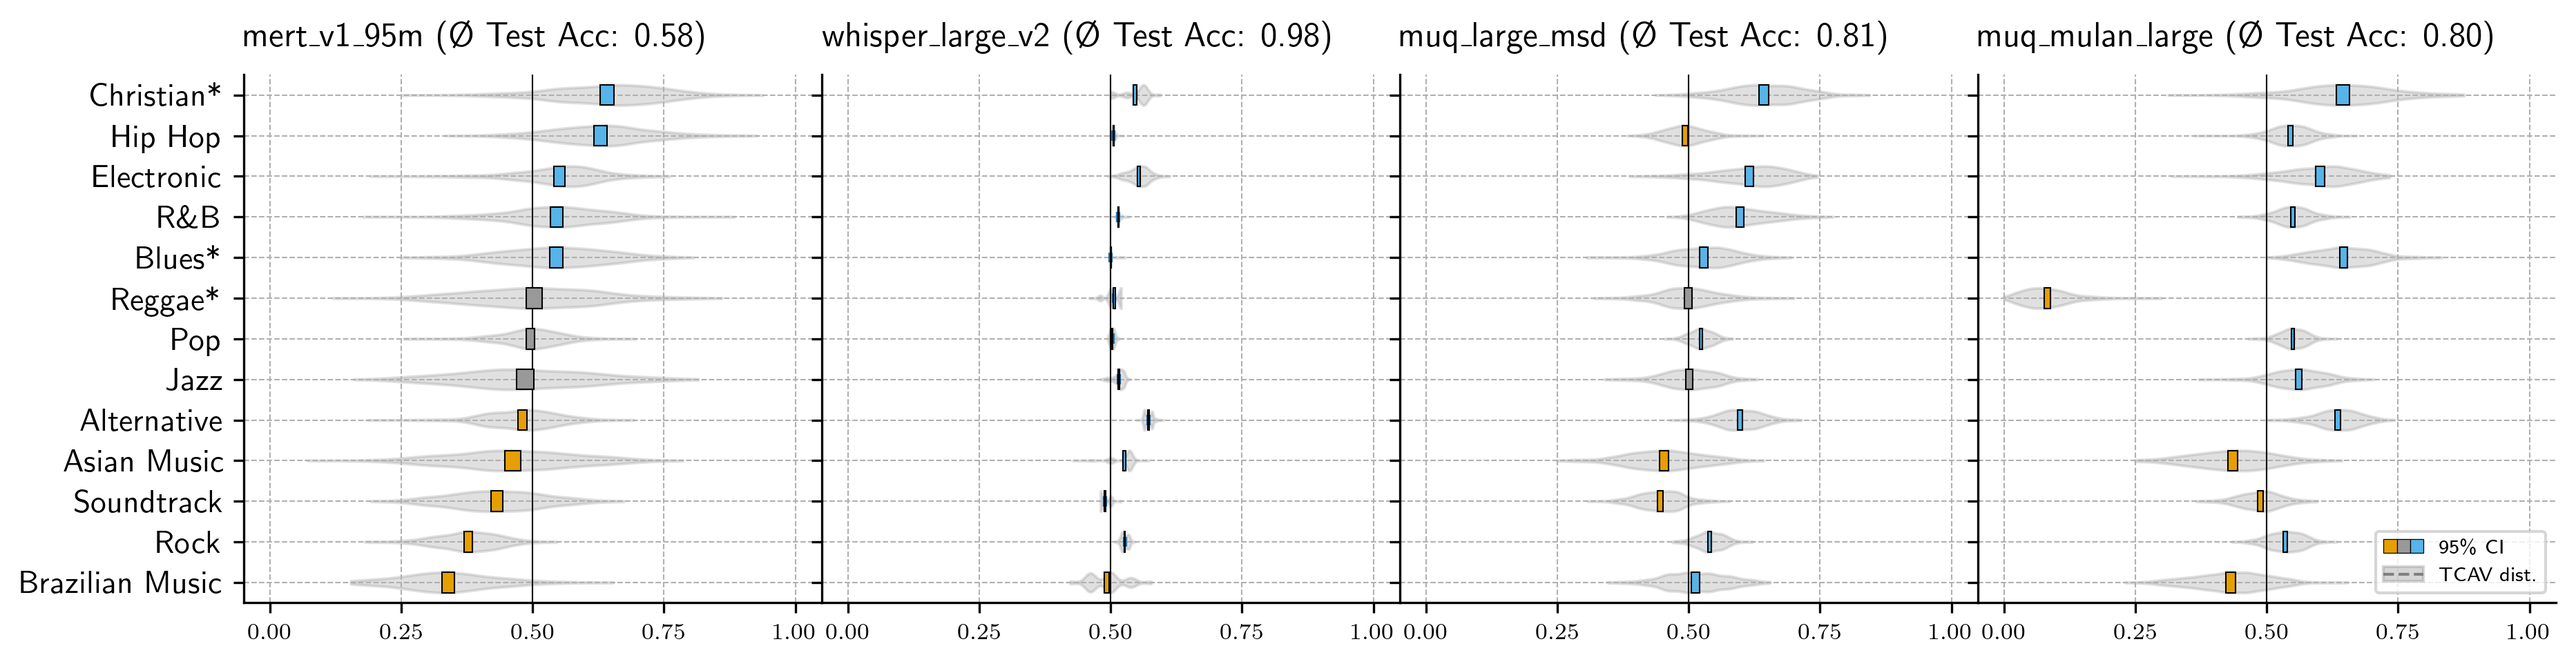
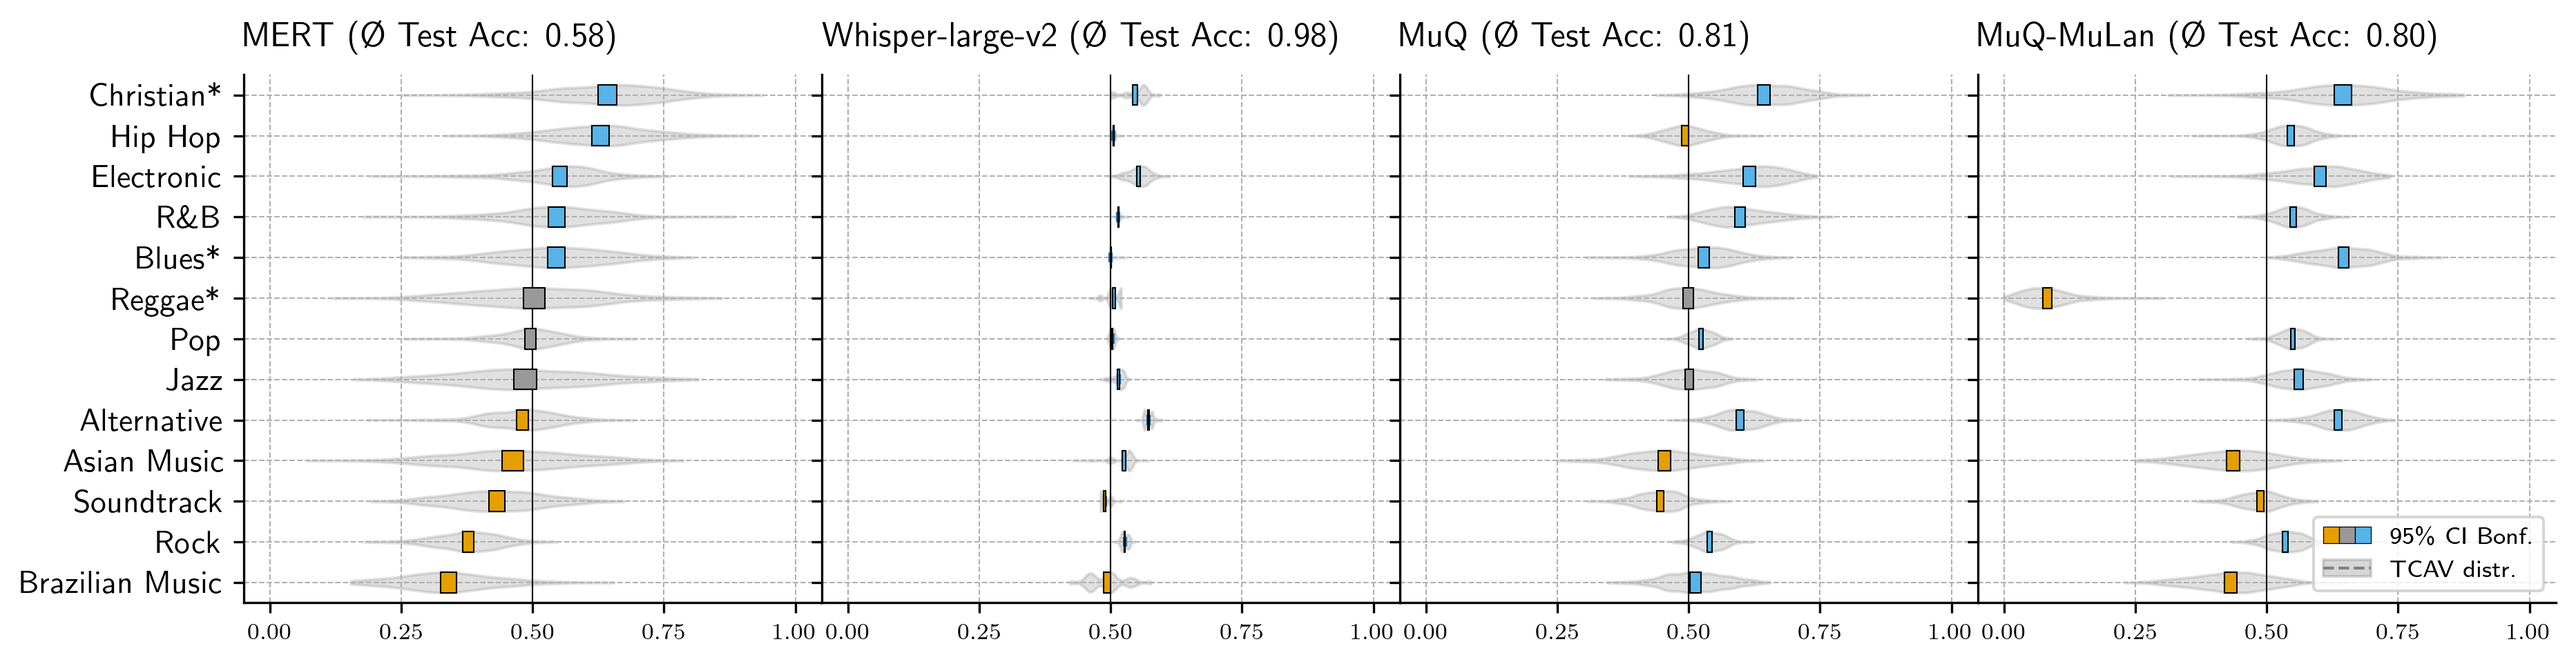
chore: refine plots, populate README.md

Changed region(s): [[0.311, 0.0312, 0.9641, 0.0936], [0.9019, 0.7796, 0.9952, 0.9044], [0.0933, 0.0312, 0.2799, 0.0936]]

diff --git a/packages/cavmir/cavmir/utils/__init__.py b/packages/cavmir/cavmir/utils/__init__.py
@@ -21,6 +21,7 @@ from cavmir.training.fit import fit_cav_model
 from cavmir.training.network import CAVNetwork
 
 TRAININGS_PREFIX = os.environ["TRAININGS_PREFIX"]
+CACHE_DIR = os.environ["CAVMIR_CACHE_DIR"]
 
 
 def create_embedding_path(song_id: str, embedding_prefix: str, encoder_id: str) -> str:
@@ -75,7 +76,7 @@ def cache_df(cache_dir: str):
     return decorator
 
 
-@cache_df(cache_dir="/tmp")
+@cache_df(cache_dir=CACHE_DIR)
 def load_df_and_embeddings(
     project_name: str,
     dataset_type: Literal["train", "test"],

diff --git a/README.md b/README.md
@@ -1,2 +1,98 @@
-# CAV-MIR
-Concept Activation Vectors in Music Information Retrieval
+# Beyond Genre: Diagnosing Bias in Music Embeddings Using Concept Activation Vectors - Official Implementation
+
+[![Paper](https://img.shields.io/badge/paper-ISMIR:<id>-024291)](paper_url)
+[![License](https://img.shields.io/badge/license-MIT-blue)](LICENSE)
+
+This repository provides the code implementation for the ISMIR2025 publication [Beyond Genre: Diagnosing Bias in Music Embeddings Using Concept Activation Vectors](paper_url).
+
+## Overview
+
+This repository consists of code an Jupyter notebooks used of preparation of audio embeddings, training of classifiers for CAV vector extraction and evaluation of those CAV vectors.
+
+```
+/
+├── data
+│   └── create_datasets.ipynb                 # Notebook for dataset preparation
+├── embedding_calculation
+│       └── calculate_mert_embeddings.ipynb   # Notebooks for audio embedding calculation
+|       └── ...
+├── evaluation
+│   └── evaluate_tcav.ipynb                   # Notebook for evaluating trained CAV vectors
+├── packages
+│   └── cavmir                                # python package containing code used for
+|       └── ...                               # embedding calcualtion and CAV training
+├── train_scripts
+│   └── train_cavs.ipynb                      # Notebook for training CAV vectors
+
+```
+
+## Setup
+
+This repoitory requires Python 3.11 and a Jupyter Notebook compatible IDE
+
+Setup a new virtual environment, clone the repository and install the provided python package:
+
+```bash
+git clone git@github.com:WhoCares96/CAV-MIR.git
+cd CAV-MIR
+
+python -m venv .venv
+source .venv/bin/activate
+
+pip install [-e] packages/cavmir
+```
+
+## Dataset
+
+The dataset used for training the Concept Activation Vectors in this paper is "STraDa: A Singer Traits Dataset". The associated metadata files as well as explanations on how to access the audio files can be found on [Zenodo](https://zenodo.org/records/10057434).
+
+After retrieval of the metadata files, please run the corresponding [create_datasets.ipynb](./data/create_datasets.ipynb) notebook to prepare genre-balanced datasets for later use.
+
+[Explalations for extra data]
+
+## Usage
+
+In order to reproduce the paper results please do the following:
+
+#### 1. Prepare dataset
+
+Follow the instructions in the [Dataset](#dataset) section to retrieve the dataset metadata and the corresponding audio files. The provided notebooks expect data to be stored on AWS S3 but can be easily adatpted for other storage types. Make sure that all audio files are stored in a single location in the format `<deezer-id>.mp3`.
+
+#### 2. Provide .env file
+
+The Jupyter Notebooks make use of dotenv to access the locations of the dataset. Duplicate the [.env.sample](.env.sample) and provide the following:
+
+- `AUDIO_PREFIX`: path or uri to the stored audio files
+- `DATASET_PREFIX`: path or uri to the dataset files created prior
+- `EMBEDDING_PREFIX`: path or uri to store audio embeddings to
+
+#### 3. Calculate audio embeddings
+
+Head to [embedding_calculation](./embedding_calculation) and run all notebooks to obtain embeddings from the audio files.
+
+#### 4. Run CAV vector trainings
+
+Open the [train_cavs.ipynb Notebook](./train_scripts/train_cavs.ipynb) and run it to create CAV vectors from the embeddings.
+
+#### 5. Run evaluation
+
+Open the [evaluate_tcav.ipynb Notebook](./evaluation/evaluate_tcav.ipynb) and run it to obtain plots for all trained genre-concept combinations.
+
+## Citation
+
+```text
+@inproceedings{gebhardt2025cav,
+  title   = {Beyond Genre: Diagnosing Bias in Music Embeddings Using Concept Activation Vectors},
+  author  = {Roman B. Gebhardt and Arne Kuhle and Eylül Bektur},
+  booktitle = {Proceedings of the 26th International Society for Music Information Retrieval Conference (ISMIR)},
+  year    = {2025}
+}
+```
+
+## License
+
+This repository is released under the MIT license. Please see the [LICENSE](LICENSE) file for more details.
+
+## Contact
+
+For any enquiries regarding this repository and the scripts usage, please open an issue or contact us via [cavmir@cyanite.ai](mailto:cavmir@cyanite.ai)
